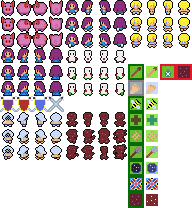
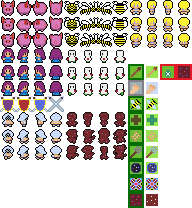
Added wasp enemy and spells for pig and wasp

Changed region(s): [[0.3125, 0.0, 0.6875, 0.2308]]

diff --git a/src/services/SpellService.ts b/src/services/SpellService.ts
@@ -6,6 +6,7 @@ import { UnitService } from "./UnitService";
 export class SpellService {
   static effectsOverTime: { [key: string]: EffectOverTime } = {
     Poison: new EffectOverTime("Poison", 58, 2, 10, 1, 1, 0, 0, 0),
+    "Wasp venom": new EffectOverTime("Wasp venom", 58, 2, 10, 1, 1, 0, 0, 0),
     Plague: new EffectOverTime("Plague", 59, 2, 25, 2, 2, 0, 0, 0),
   };
 
@@ -186,6 +187,41 @@ export class SpellService {
       0,
       null,
       UnitService.units["Princess"]
+    ),
+    Biting: new Spell(
+      0,
+      1,
+      1,
+      4,
+      "Biting",
+      true,
+      false,
+      30,
+      0,
+      0,
+      0,
+      0,
+      0,
+      "monoTarget"
+    ),
+    "Wasp sting": new Spell(
+      0,
+      1,
+      1,
+      4,
+      "Wasp sting",
+      true,
+      false,
+      15,
+      0,
+      0,
+      0,
+      0,
+      0,
+      "monoTarget",
+      1,
+      0,
+      this.effectsOverTime["Wasp venom"]
     ),
   };
 

diff --git a/src/services/UnitService.ts b/src/services/UnitService.ts
@@ -49,12 +49,21 @@ export class UnitService {
     },
     Pig: {
       HP: 120,
-      MP: 6,
+      MP: 5,
       AP: 6,
-      spells: "Punch",
+      spells: "Biting",
       frame: 0,
       type: "Pig",
       description: "Just some pig.",
+    },
+    Wasp: {
+      HP: 80,
+      MP: 8,
+      AP: 6,
+      spells: "Wasp sting",
+      frame: 4,
+      type: "Wasp",
+      description: "A really big wasp.",
     },
     Princess: {
       HP: 50,

diff --git a/src/scenes/MapScene.ts b/src/scenes/MapScene.ts
@@ -66,7 +66,7 @@ export class MapScene extends Phaser.Scene {
       .setInteractive()
       .on("pointerup", () => {
         this.scene.start("BattleScene", {
-          enemyType: "Pig",
+          enemyType: "Wasp",
         });
       });
   }
